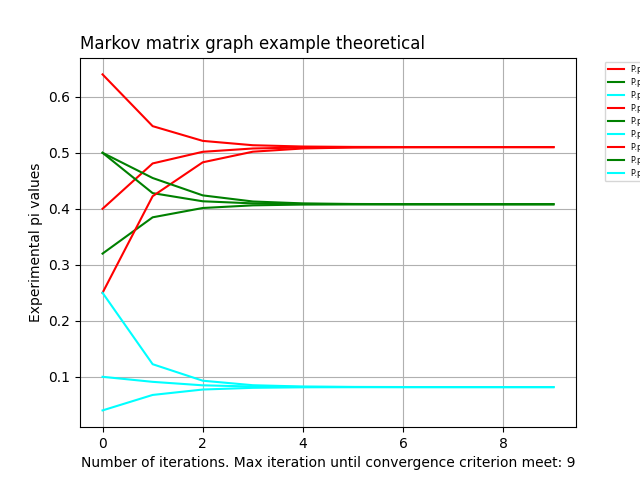
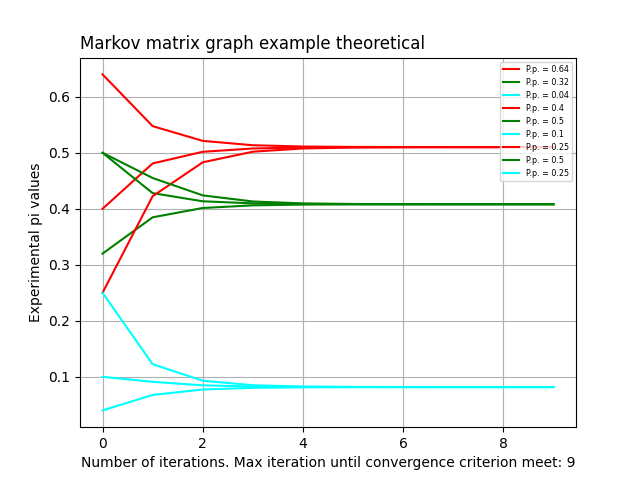
Classes 2 exB and exA update

Changed region(s): [[0.7812, 0.125, 0.9062, 0.375], [0.9375, 0.125, 1.0, 0.375]]

diff --git a/statistics/classes_2/exA/exA.py b/statistics/classes_2/exA/exA.py
@@ -1,6 +1,7 @@
 # A script where for a given probability matrix (made from a markov chain)
 # multiply it by itself N times until a convergence criterion is found (each successive
 # multiplication yields very small changes), e.g. |P^n - P^(n-1)| < 10^(-5).
+# The pi values show a steady state drive.
 # Script will show theoretical results (experimental results in script B).
 # Author: Kamil Czerwiński, Jagiellonian University, CS 2020/2021
 
@@ -80,7 +81,7 @@ def show_graph(elements: list, max_iteration_number: int) -> None:
     plt.ylabel(f"Experimental pi values")
     plt.xlabel(f"Number of iterations. Max iteration until convergence criterion meet: {max_iteration_number}")
     plt.title(f"Markov matrix graph example theoretical", loc='left')
-    plt.legend(bbox_to_anchor=(1.05, 1), loc='upper left', fontsize='xx-small')
+    plt.legend(loc='upper right', fontsize='xx-small')
     plt.savefig(f"example1.png")
     plt.show()
 

diff --git a/statistics/classes_2/exB/exB.py b/statistics/classes_2/exB/exB.py
@@ -1,6 +1,7 @@
 # A script where starting from Markov chain node we draw the probability of passing from one node to another
 # according to the given probability matrix (made from Markov chain). We do this many times. In the end we check how
 # many times we visited each node.
+# The pi values show a steady state drive.
 # Script will show experimental results (theoretical results in script A).
 # Author: Kamil Czerwiński, Jagiellonian University, CS 2020/2021
 
@@ -58,7 +59,7 @@ def show_graph(elements: list, num_of_iterations: int, leap: int) -> None:
     plt.ylabel(f"Experimental pi values")
     plt.xlabel(f"Number of iterations: {num_of_iterations}, leap every: {leap}")
     plt.title(f"Markov matrix graph example experimental", loc='left')
-    plt.legend(bbox_to_anchor=(1.05, 1), loc='upper left', fontsize='xx-small')
+    plt.legend(loc='upper right', fontsize='xx-small')
     plt.savefig(f"example1.png")
     plt.show()
 
